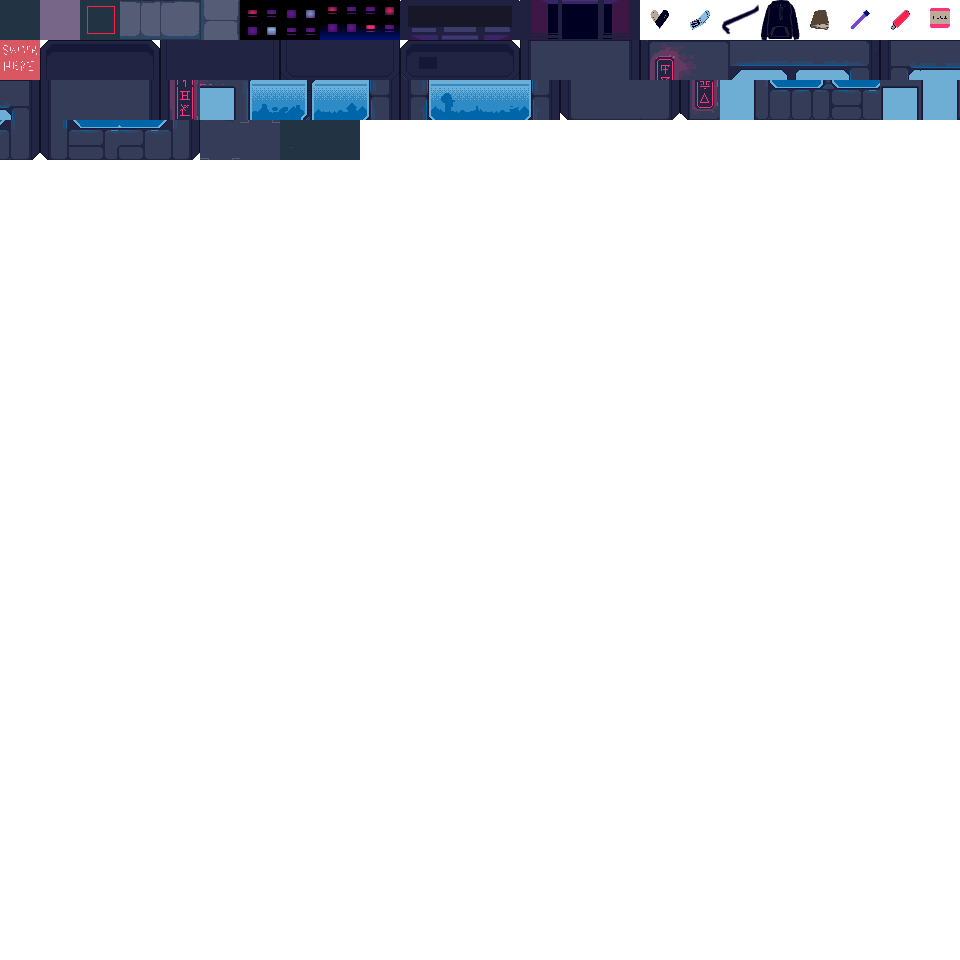
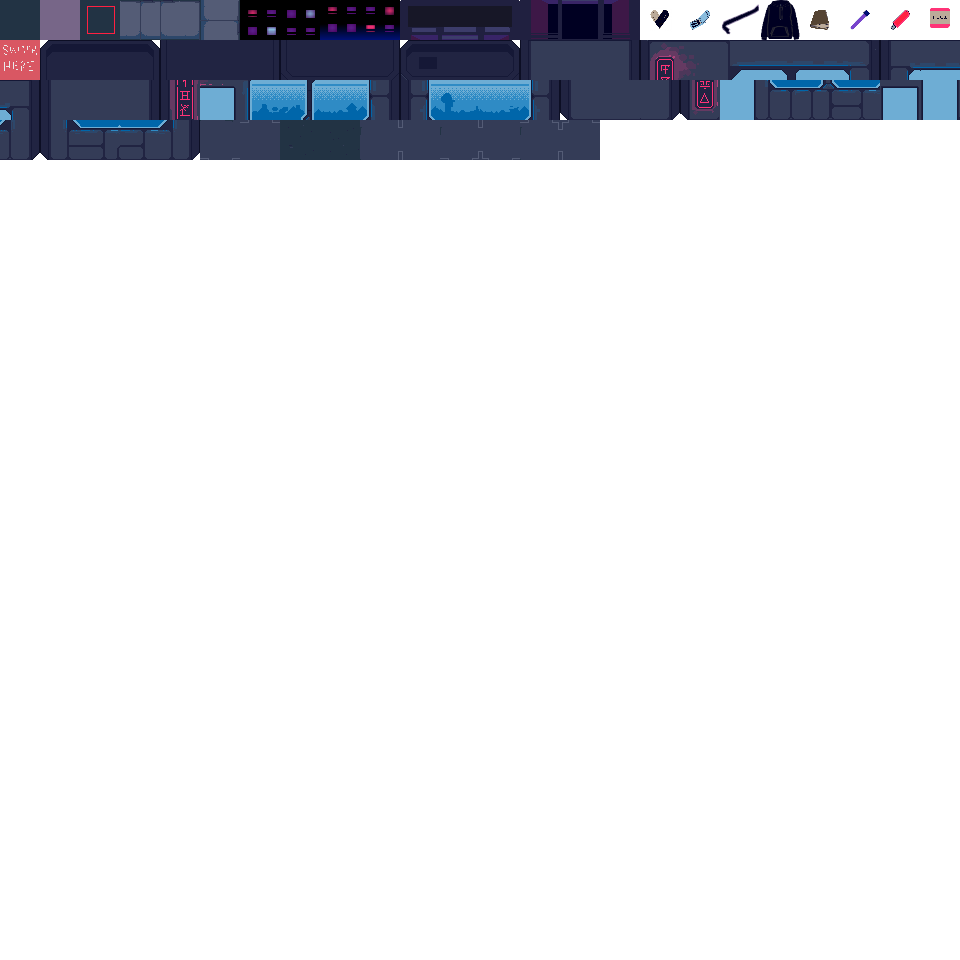
more map work, more tile art

Changed region(s): [[0.375, 0.125, 0.625, 0.1875]]

diff --git a/js/Locations.js b/js/Locations.js
@@ -59,58 +59,58 @@ let theCity =
 { 
 layout: [
     2,2,2,2,2,2,2,2,2,2,2,2,2,2,2,2,2,2,2,2,2,2,2,2,2,2,2,2,2,2,2,2,2,2,2,2,2,2,2,2,2,2,2,2,2,2,2,2,2,2,2,2,2,2,2,2,2,2,2,2,
-2,81,81,81,81,81,81,81,81,81,81,81,81,81,81,81,81,81,81,81,81,81,81,81,81,81,81,81,81,81,81,81,81,81,81,81,81,81,81,81,81,81,81,81,81,81,81,81,81,81,81,81,81,81,81,81,81,81,81,2,
-2,81,81,81,81,81,81,81,81,81,81,81,81,81,81,81,81,81,81,81,81,81,81,81,81,81,81,81,81,81,81,81,81,81,81,81,81,81,81,81,81,81,81,81,81,81,81,81,81,81,81,81,81,81,81,81,81,81,81,2,
-2,81,81,81,81,81,26,27,28,81,81,81,81,81,81,81,81,81,81,81,81,81,81,81,81,81,81,81,81,81,81,81,81,81,81,81,81,81,81,81,81,81,81,81,81,81,81,81,81,81,81,81,81,81,81,81,81,81,81,2,
-2,81,81,26,27,28,29,30,31,81,81,81,81,81,81,81,81,81,81,81,81,81,81,26,27,28,81,81,81,81,81,81,81,81,81,81,81,81,81,81,81,81,81,81,81,81,81,81,81,81,81,81,81,81,81,81,81,81,81,2,
-2,81,81,29,30,31,32,33,34,35,36,36,37,81,81,35,36,36,36,36,37,81,81,29,30,31,81,81,81,81,81,81,81,81,81,81,81,81,81,81,81,81,81,81,81,81,81,81,81,81,81,81,81,81,81,81,81,81,81,2,
-2,81,81,32,33,34,50,51,52,47,48,48,49,81,81,41,42,43,44,45,46,81,81,32,33,34,81,81,81,81,81,81,81,81,81,81,81,81,81,81,81,81,81,81,81,81,81,81,81,81,81,81,81,81,81,81,81,81,81,2,
-2,81,81,38,39,40,50,71,52,59,60,61,62,81,81,53,71,55,56,57,58,81,81,38,39,40,81,81,81,81,81,81,81,81,81,81,81,81,81,81,81,81,81,81,81,81,81,81,81,81,81,81,81,81,81,81,81,81,81,2,
-2,81,81,63,64,65,63,72,65,74,75,76,77,81,81,66,72,68,69,70,77,81,81,63,64,65,81,81,81,81,81,81,81,81,81,81,81,81,81,81,81,81,81,81,81,81,81,81,81,81,81,81,81,81,81,81,81,81,81,2,
-2,4,4,4,4,4,4,4,4,4,4,4,4,4,4,4,4,4,4,4,4,4,4,4,4,4,4,4,4,4,4,4,4,4,4,4,4,4,4,4,4,4,4,4,4,81,81,81,81,81,81,81,81,81,81,81,81,81,81,2,
-2,78,78,78,78,78,78,78,78,78,78,78,78,78,78,78,78,78,78,78,78,78,78,78,78,78,78,78,78,78,78,78,78,78,78,78,78,78,78,78,78,78,78,78,78,78,81,81,81,81,81,81,81,81,81,81,81,81,81,2,
-2,79,79,79,79,79,79,79,79,79,79,79,79,79,79,79,79,79,79,79,79,79,79,79,79,79,79,79,79,79,79,79,79,79,79,79,79,79,79,79,79,79,79,79,79,79,81,81,81,81,81,81,81,81,81,81,81,81,81,2,
-2,4,4,4,4,4,4,4,4,4,4,4,4,4,4,4,4,4,4,4,4,4,4,26,27,28,4,4,4,4,4,4,4,4,4,4,81,81,4,4,4,4,4,4,4,81,81,81,81,81,81,81,81,81,81,81,81,81,81,2,
-2,25,81,81,81,81,81,81,81,81,81,81,81,81,81,81,81,81,81,81,81,81,6,29,30,31,81,81,80,80,80,81,81,81,81,6,81,81,6,81,81,81,81,81,81,81,81,81,81,81,81,81,81,81,81,81,81,81,81,2,
-2,81,81,81,81,81,81,81,81,81,81,81,81,81,81,81,81,81,81,81,81,81,6,32,33,34,81,81,81,81,81,81,81,81,81,6,81,81,6,81,81,81,81,81,81,81,81,81,81,81,81,81,81,81,81,81,81,81,81,2,
-2,81,81,81,81,81,81,81,81,81,81,81,81,81,26,27,28,81,81,81,81,81,6,38,39,40,81,81,81,81,81,81,81,81,81,6,81,81,6,81,81,81,81,81,81,81,81,81,81,81,81,81,81,81,81,81,81,81,81,2,
-2,26,27,28,81,81,23,81,81,81,81,26,27,28,29,30,31,81,81,81,81,81,6,63,64,65,81,81,81,81,80,81,81,81,81,6,81,81,6,81,81,81,81,81,81,81,81,81,81,81,81,81,81,81,81,81,81,81,81,2,
-2,29,30,31,81,81,81,81,81,81,81,29,30,31,32,33,34,35,36,36,37,81,6,35,36,36,36,36,37,81,81,81,81,81,81,6,81,81,6,81,81,81,81,81,81,81,81,81,81,81,81,81,81,81,81,81,81,81,81,2,
-2,32,33,34,81,81,81,81,81,81,81,32,33,34,50,51,52,47,80,48,49,81,6,41,42,43,44,45,46,81,81,81,81,81,81,6,81,81,6,81,81,81,81,81,81,81,81,81,81,81,81,81,81,81,81,81,81,81,81,2,
-2,38,39,40,81,81,81,81,21,81,81,38,39,40,50,71,52,59,60,61,62,81,6,53,71,55,56,57,58,81,81,80,81,80,81,6,81,81,6,81,81,81,81,80,81,81,81,81,81,81,81,81,81,81,81,81,81,81,81,2,
-2,63,64,65,81,81,81,81,81,81,81,63,64,65,63,72,65,74,75,76,77,81,6,66,80,80,80,80,80,80,80,81,80,81,81,6,81,81,6,81,81,81,81,81,81,81,81,81,81,81,81,81,81,81,81,81,81,81,81,2,
-2,81,81,81,81,81,81,81,81,81,81,81,81,81,81,81,81,81,81,81,81,81,6,81,81,81,81,81,81,81,80,80,80,80,81,6,81,81,6,81,81,81,81,81,81,81,81,81,81,81,81,81,81,81,81,81,81,81,81,2,
-2,81,81,81,81,81,81,81,81,81,81,81,81,3,81,81,81,81,81,81,81,81,81,81,81,81,81,81,81,81,81,80,81,81,81,6,81,81,6,81,81,80,81,81,81,81,81,81,81,81,81,81,81,81,81,81,81,81,81,2,
-2,81,81,81,81,81,81,81,24,81,80,81,81,81,81,81,81,81,81,81,17,81,81,81,81,81,81,81,81,81,80,81,81,81,81,6,81,81,6,81,81,81,81,81,81,81,81,81,81,81,81,81,81,81,81,81,81,81,81,2,
-2,81,81,81,81,81,81,81,81,81,81,81,81,81,81,81,81,81,81,81,81,81,81,26,27,28,81,81,81,80,81,81,81,20,81,6,81,81,6,81,81,81,81,81,81,80,81,81,81,81,81,81,81,81,81,81,81,81,81,2,
-2,81,81,81,81,81,80,81,81,81,81,81,81,81,81,81,22,81,81,81,81,81,81,29,30,31,81,81,81,81,81,81,81,81,81,6,81,81,6,81,81,81,81,81,81,81,81,81,81,81,81,81,81,81,81,81,81,81,81,2,
-2,81,81,81,81,81,81,81,81,81,81,81,81,81,81,81,81,81,81,81,81,81,81,32,33,34,81,81,81,81,81,81,81,81,81,6,81,81,6,81,81,81,81,81,81,81,81,81,81,81,81,81,81,81,81,81,81,81,81,2,
-2,81,81,81,80,81,81,81,81,81,80,81,81,81,81,81,81,81,81,81,81,81,81,38,39,40,81,81,81,81,81,81,81,81,81,6,81,81,6,81,81,81,81,81,81,81,81,81,81,81,81,81,81,81,81,81,81,81,81,2,
-2,81,81,81,81,81,81,81,81,81,81,81,81,81,81,81,81,81,81,81,81,81,81,63,64,65,81,81,81,81,81,80,81,81,81,6,81,81,6,81,81,81,81,81,81,81,81,81,81,80,81,81,81,81,81,81,81,81,81,2,
-2,81,81,81,81,81,81,80,80,81,81,81,81,81,81,81,81,81,81,81,81,81,81,81,81,81,81,81,81,81,81,81,81,81,81,6,81,81,6,81,81,81,81,81,81,81,81,81,80,81,81,81,81,81,81,81,81,81,81,2,
-2,81,81,81,81,81,81,81,80,81,81,81,81,81,80,81,81,81,81,81,81,81,81,81,81,81,81,81,81,81,81,81,81,81,81,6,81,81,6,81,81,81,81,81,81,81,81,81,81,81,81,81,81,81,81,81,81,81,81,2,
-2,81,81,81,80,81,81,81,81,81,81,81,81,81,80,81,81,81,81,81,81,81,81,35,36,36,37,81,81,81,81,81,81,81,81,6,81,81,6,81,81,80,81,81,81,81,81,81,81,81,81,81,81,81,81,81,81,81,81,2,
-2,81,81,81,81,81,81,81,81,80,81,81,81,81,81,80,81,81,81,81,81,81,81,47,48,48,49,81,81,81,81,81,81,81,81,6,81,81,6,81,81,81,81,81,80,81,81,81,81,81,81,81,81,81,81,81,81,81,81,2,
-2,81,81,81,81,81,81,81,80,81,81,80,80,81,81,81,81,81,81,81,81,81,81,59,60,61,62,81,81,81,81,81,81,81,81,6,81,81,6,81,81,81,81,81,81,81,81,81,81,81,81,81,81,81,81,81,81,81,81,2,
-2,81,81,81,81,81,81,81,81,81,81,81,81,81,81,81,81,81,81,81,81,81,81,74,75,76,77,81,81,81,81,81,81,81,81,6,81,81,6,81,81,81,81,81,80,81,81,81,80,81,81,81,81,81,81,81,81,81,81,2,
-2,81,81,81,81,81,81,81,81,81,81,81,81,81,81,81,81,81,81,81,81,81,81,81,81,81,81,81,81,81,81,81,81,81,81,6,81,81,6,81,81,81,81,81,80,80,81,81,81,81,81,81,81,81,81,81,81,81,81,2,
-2,81,81,81,81,81,81,81,81,81,81,81,81,81,81,81,81,81,81,81,81,81,81,81,81,81,81,81,81,81,81,81,81,81,81,6,81,81,6,81,81,81,81,81,81,81,81,81,81,81,81,81,81,81,81,81,81,81,81,2,
-2,81,81,81,81,81,81,81,81,81,81,81,81,81,81,81,81,81,81,81,81,80,81,81,81,81,81,81,81,81,81,81,81,81,81,6,81,81,6,81,81,81,81,81,81,80,81,81,81,81,81,81,81,81,81,81,81,81,81,2,
-2,81,81,81,81,81,81,81,81,81,81,81,81,81,81,81,81,81,81,81,81,80,81,81,81,81,80,81,81,81,81,81,81,81,81,6,81,81,6,81,81,81,81,81,81,80,81,80,81,81,81,81,81,81,81,81,81,81,81,2,
-2,81,81,81,81,81,81,81,81,81,81,81,81,81,81,81,81,81,81,80,81,81,81,81,81,81,81,81,81,81,81,81,81,81,81,6,81,81,6,81,81,81,80,81,81,81,80,81,81,81,81,81,81,81,81,81,81,81,81,2,
-2,81,81,81,81,81,81,81,81,81,81,81,81,81,81,81,81,81,81,81,81,81,80,80,81,81,81,81,81,81,81,81,81,81,81,81,81,81,81,81,81,81,81,81,81,81,81,81,81,81,81,81,81,81,81,81,81,81,81,2,
-2,81,81,81,81,81,81,81,81,81,81,81,81,81,81,81,81,81,81,81,81,81,81,80,80,81,81,81,81,81,81,81,81,81,81,81,81,81,81,81,81,81,81,81,81,81,81,81,81,81,81,81,81,81,81,81,81,81,81,2,
-2,81,81,81,81,81,81,81,81,81,81,81,81,81,81,81,81,81,81,81,81,81,81,81,81,81,81,81,81,81,81,81,81,81,81,81,81,81,81,81,81,81,81,81,81,81,81,81,81,81,81,81,81,81,81,81,81,81,81,2,
-2,81,81,81,81,81,81,81,81,81,81,81,81,81,81,81,81,81,81,81,81,81,81,80,81,81,81,81,81,81,81,81,81,81,81,81,81,81,81,81,81,81,81,81,81,81,81,81,81,81,81,81,81,81,81,81,81,81,81,2,
-2,81,81,81,81,81,81,81,81,81,81,81,81,81,81,81,81,81,81,81,81,81,81,81,81,81,81,81,81,81,81,81,81,81,81,81,81,81,81,81,81,81,81,81,81,81,81,81,81,81,81,81,81,81,81,81,81,81,81,2,
-2,81,81,81,81,81,81,81,81,81,81,81,81,81,81,81,81,81,81,81,81,81,81,81,81,81,81,81,81,81,81,81,81,81,81,81,81,81,81,81,81,81,81,81,81,81,81,81,81,81,81,81,81,81,81,81,81,81,81,2,
-2,81,81,81,81,81,81,81,81,81,81,81,81,81,81,81,81,81,81,81,81,81,81,81,81,81,81,81,81,81,81,81,81,81,81,81,81,81,81,81,81,81,81,81,81,81,81,81,81,81,81,81,81,81,81,81,81,81,81,2,
-2,81,81,81,81,81,81,81,81,81,81,81,81,81,81,81,81,81,81,81,81,81,81,81,81,81,81,81,81,81,81,81,81,81,81,81,81,81,81,81,81,81,81,81,81,81,81,81,81,81,81,81,81,81,81,81,81,81,81,2,
-2,81,81,81,81,81,81,81,81,81,81,81,81,81,81,81,81,81,81,81,81,81,81,81,81,81,81,81,81,81,81,81,81,81,81,81,81,81,81,81,81,81,81,81,81,81,81,81,81,81,81,81,81,81,81,81,81,81,81,2,
-2,81,81,81,81,81,81,81,81,81,81,81,81,81,81,81,81,81,81,81,81,81,81,81,81,81,81,81,81,81,81,81,81,81,81,81,81,81,81,81,81,81,81,81,81,81,81,81,81,81,81,81,81,81,81,81,81,81,81,2,
-2,81,81,81,81,81,81,81,81,81,81,81,81,81,81,81,81,81,81,81,81,81,81,81,81,81,81,81,81,81,81,81,81,81,81,81,81,81,81,81,81,81,81,81,81,81,81,81,81,81,81,81,81,81,81,81,81,81,81,2,
-2,81,81,81,81,81,81,81,81,81,81,81,81,81,81,81,81,81,81,81,81,81,81,81,81,81,81,81,81,81,81,81,81,81,81,81,81,81,81,81,81,81,81,81,81,81,81,81,81,81,81,81,81,81,81,81,81,81,81,2,
-2,81,81,81,81,81,81,81,81,81,81,81,81,81,81,81,81,81,81,81,81,81,81,81,81,81,81,81,81,81,81,81,81,81,81,81,81,81,81,81,81,81,81,81,81,81,81,81,81,81,81,81,81,81,81,81,81,81,81,2,
+2,1,1,1,1,1,1,1,1,1,1,1,1,1,1,1,1,1,1,1,1,1,1,1,1,1,1,1,1,1,1,1,1,1,1,1,1,1,1,1,1,1,1,1,1,1,1,1,1,1,1,1,1,1,1,1,1,1,1,2,
+2,1,1,1,1,1,1,1,1,1,1,1,1,1,1,1,1,1,1,1,1,1,1,1,1,1,1,1,1,1,1,1,1,1,1,1,1,1,1,1,1,1,1,1,1,1,1,1,1,1,1,1,1,1,1,1,1,1,1,2,
+2,1,1,1,1,1,1,1,1,1,1,1,1,1,1,1,1,1,1,1,1,1,1,1,1,1,1,1,1,1,1,1,1,1,1,1,1,1,1,1,1,1,1,1,1,1,1,1,1,1,1,1,1,1,1,1,1,1,1,2,
+2,1,1,1,1,1,1,1,1,1,1,1,1,1,1,1,1,1,1,1,1,1,1,1,1,1,1,1,1,1,1,1,1,1,1,1,1,1,1,1,1,1,1,1,1,1,1,1,1,1,1,1,1,1,1,1,1,1,1,2,
+2,1,1,1,1,1,1,1,1,1,1,1,1,1,1,1,1,1,1,1,1,1,1,1,1,1,1,1,1,1,1,1,1,1,1,1,1,1,1,1,1,1,1,1,1,1,1,1,1,1,1,1,1,1,1,1,1,1,1,2,
+2,1,1,1,1,1,1,1,1,1,1,1,1,1,1,1,1,1,1,1,1,1,1,1,1,1,1,1,1,1,1,1,1,1,1,1,1,1,1,1,1,1,1,1,1,1,1,1,1,1,1,1,1,1,1,1,1,1,1,2,
+2,1,1,1,1,1,26,27,28,1,1,1,1,1,1,1,1,1,1,1,1,26,28,1,1,1,1,1,1,1,1,26,27,28,1,1,1,1,1,1,1,1,1,1,1,1,1,1,1,1,1,1,1,1,1,1,1,1,1,2,
+2,1,1,26,27,28,29,30,31,1,1,1,1,26,28,1,1,1,1,1,1,29,31,26,27,27,28,1,1,1,1,29,30,31,1,1,1,1,1,1,1,1,1,1,1,1,1,1,1,1,1,1,1,1,1,1,1,1,1,2,
+2,1,1,29,30,31,32,33,34,35,36,36,37,29,31,35,36,36,36,36,37,32,34,29,30,30,31,35,36,36,37,32,33,34,1,35,36,36,36,36,37,1,1,1,1,1,1,1,1,1,1,1,1,1,1,1,1,1,1,2,
+2,1,1,32,33,34,50,51,52,47,48,48,49,32,34,41,42,43,44,45,46,38,40,32,33,33,34,47,48,48,49,50,51,52,1,47,48,48,48,48,49,1,1,1,1,1,1,1,1,1,1,1,1,1,1,1,1,1,1,2,
+2,1,1,38,39,40,50,71,52,59,60,61,62,38,40,53,71,55,56,57,58,50,52,38,39,39,40,59,60,61,62,50,71,52,1,59,60,61,61,61,62,1,1,1,1,1,1,1,1,1,1,1,1,1,1,1,1,1,1,2,
+2,1,1,63,64,65,63,72,65,74,75,76,77,63,65,66,72,68,69,70,77,63,65,63,64,64,65,74,75,76,77,63,72,65,1,74,75,76,76,76,77,1,1,1,1,1,1,1,1,1,1,1,1,1,1,1,1,1,1,2,
+2,4,4,4,4,4,4,4,4,4,4,4,4,4,4,4,4,4,4,4,4,4,4,4,4,4,4,4,4,4,4,4,4,4,4,4,4,4,5,26,27,27,28,1,1,81,81,81,81,81,81,81,81,81,81,81,81,81,81,2,
+2,78,78,78,78,78,78,78,78,78,78,78,78,78,78,78,78,78,78,78,78,78,78,3,78,78,78,78,78,78,78,78,78,78,78,78,78,78,6,29,30,30,31,1,1,1,81,81,81,81,81,81,81,81,81,81,81,81,81,2,
+2,79,79,79,79,79,79,79,79,79,79,79,79,79,79,79,79,79,79,79,79,79,79,79,79,79,79,79,79,79,79,79,79,79,79,79,86,87,6,32,33,33,34,1,1,1,81,81,81,81,81,81,81,81,81,81,81,81,81,2,
+2,4,4,4,4,4,4,4,4,4,4,4,35,36,36,37,4,4,4,4,4,4,4,26,27,28,4,4,4,4,26,27,27,27,28,5,82,83,6,38,39,39,40,1,1,1,81,81,81,81,81,81,81,81,81,81,81,81,81,2,
+2,81,81,81,81,81,35,36,36,37,81,81,50,39,39,40,35,36,37,26,27,27,28,29,30,31,26,27,28,80,29,30,30,30,31,6,82,83,6,63,64,64,65,81,81,81,81,81,81,81,81,81,81,81,81,81,81,81,81,2,
+2,81,81,81,81,81,50,39,39,40,81,81,63,64,64,65,50,39,40,32,33,33,34,32,33,34,29,30,31,81,32,33,33,33,34,6,82,83,6,81,81,81,81,81,81,81,81,81,81,81,81,81,81,81,81,81,81,81,81,2,
+2,81,81,81,81,81,63,64,64,65,81,81,81,81,81,81,50,51,52,38,39,39,40,38,39,40,32,33,34,81,38,39,26,27,28,6,82,83,6,26,27,27,28,81,81,81,81,81,81,81,81,81,81,81,81,81,81,81,81,2,
+2,81,81,81,81,81,81,81,81,81,81,81,81,81,81,81,50,51,52,63,64,64,65,63,64,65,38,39,40,81,63,64,29,30,31,6,82,83,6,29,30,30,31,81,81,81,81,81,81,81,81,81,81,81,81,81,81,81,81,2,
+2,81,81,81,81,81,81,81,81,81,81,81,81,81,81,81,63,64,65,81,81,81,81,1,1,1,63,64,65,81,81,81,32,33,34,6,82,83,6,32,33,33,34,81,81,81,81,81,81,81,81,81,81,81,81,81,81,81,81,2,
+2,81,81,81,81,81,81,81,81,81,81,81,81,81,81,81,81,81,81,81,81,81,81,1,1,1,1,1,1,81,81,81,38,39,40,6,82,83,6,38,39,39,40,81,81,81,26,27,27,28,81,81,81,26,27,28,81,81,81,2,
+2,81,81,81,81,81,81,81,81,81,81,81,81,81,81,81,81,81,81,81,81,81,81,1,1,1,1,1,1,81,81,80,63,64,65,6,82,83,6,63,64,64,65,80,81,81,29,30,30,31,26,27,28,29,30,31,28,81,81,2,
+2,81,81,81,81,81,81,81,81,81,81,81,81,81,81,81,81,81,81,81,81,81,81,1,1,1,1,1,1,80,80,81,80,81,81,6,82,83,6,35,36,36,36,36,36,37,32,33,33,34,29,30,31,32,33,34,31,81,81,2,
+2,81,81,81,81,81,81,81,81,81,81,81,81,81,81,81,81,81,81,81,81,81,81,81,81,81,81,81,81,81,80,80,80,80,81,6,82,83,6,47,48,48,48,48,48,49,38,39,39,40,32,33,34,50,51,52,34,81,81,2,
+2,81,81,81,81,81,81,81,81,81,81,81,81,81,81,81,81,81,81,81,81,81,81,81,81,81,81,81,81,81,81,81,81,81,81,6,82,83,6,59,60,61,61,61,61,62,63,64,64,65,38,39,40,50,71,52,40,81,81,2,
+2,81,81,81,81,81,81,81,81,81,81,81,81,81,81,81,81,81,81,81,81,81,81,81,81,81,81,81,81,81,81,81,81,81,81,6,82,83,6,74,75,76,76,76,76,77,81,81,81,81,63,64,65,63,72,65,65,81,81,2,
+2,81,81,81,81,81,81,81,81,81,81,81,81,81,81,81,81,81,81,81,81,81,81,81,81,81,81,81,81,81,81,81,81,81,81,6,82,83,6,4,4,4,4,4,4,4,4,4,4,4,4,4,4,4,25,4,4,4,4,2,
+2,81,81,81,81,81,81,81,81,81,81,81,81,81,81,81,81,81,81,81,81,81,81,81,81,81,81,81,81,81,81,81,81,81,81,6,82,85,78,78,78,78,78,78,78,78,78,78,78,78,78,78,78,78,78,78,78,78,78,2,
+2,81,81,81,81,81,81,81,81,81,81,81,81,81,81,81,81,81,81,81,81,81,81,81,81,81,81,81,81,81,81,81,81,81,81,6,82,87,79,79,79,79,79,79,79,79,79,79,79,79,79,79,79,79,79,79,79,79,79,2,
+2,81,81,81,81,81,81,81,81,81,81,81,81,81,81,81,81,81,81,81,81,81,81,81,81,81,81,81,81,81,81,81,81,81,81,6,82,83,6,4,4,4,4,4,4,4,4,26,27,28,4,4,4,4,26,27,27,27,28,2,
+2,81,81,81,81,81,81,81,81,81,81,81,81,81,81,81,81,81,81,81,81,81,81,81,81,81,81,81,81,81,81,81,81,81,81,6,82,83,6,81,81,81,81,26,27,27,28,29,30,31,26,27,28,80,29,30,30,30,31,2,
+2,81,81,81,81,81,81,81,81,81,81,81,81,81,81,81,81,81,81,81,81,81,81,81,81,81,81,81,81,81,81,81,81,81,81,6,82,83,6,81,81,81,81,32,33,33,34,32,33,34,29,30,31,81,32,33,33,33,34,2,
+2,81,81,81,81,81,81,81,81,81,81,81,81,81,81,81,1,81,81,81,81,81,81,81,81,81,81,81,81,81,81,81,81,81,81,6,82,83,6,81,81,81,81,38,39,39,40,38,39,40,32,33,34,81,38,39,26,27,28,2,
+2,81,81,81,81,81,81,81,81,81,81,81,81,81,81,81,81,81,81,81,81,81,81,81,81,81,81,81,81,81,81,81,81,81,81,6,82,83,6,81,81,80,81,63,64,64,65,63,64,65,38,39,40,81,63,64,29,30,31,2,
+2,81,81,81,81,81,81,81,81,80,81,81,81,81,81,80,81,81,81,81,81,81,81,81,81,81,81,81,81,81,81,81,81,81,81,6,82,83,6,81,81,81,81,81,81,81,81,1,1,1,63,64,65,81,81,81,32,33,34,2,
+2,81,81,81,81,81,81,81,80,81,81,80,80,81,81,81,81,26,27,27,27,27,27,27,27,28,81,81,81,81,81,81,81,81,81,6,82,83,6,81,81,81,81,81,81,81,81,1,1,1,1,1,1,81,81,81,38,39,40,2,
+1,1,26,27,28,1,1,1,1,1,1,81,81,81,81,81,35,36,30,30,30,30,30,30,30,31,81,26,27,27,27,27,28,81,81,6,82,83,6,81,81,81,81,81,81,81,81,1,1,1,1,1,1,81,81,80,63,64,65,2,
+27,28,29,30,31,1,1,1,1,26,28,81,81,81,81,81,29,31,33,33,33,33,33,33,33,34,81,29,30,30,30,30,31,81,81,6,82,83,6,81,81,81,81,81,80,80,81,81,81,81,81,81,81,81,81,81,81,81,81,2,
+30,31,32,33,34,35,36,36,37,29,31,81,81,81,81,81,32,34,51,51,51,51,51,51,51,52,81,32,33,33,33,33,34,81,81,6,82,83,6,81,81,81,81,81,81,81,81,81,81,81,81,81,81,81,81,81,81,81,81,2,
+33,34,50,51,52,47,48,48,49,32,34,81,81,81,81,81,38,40,51,51,51,51,51,51,71,52,81,50,51,51,51,51,52,81,81,6,82,83,6,81,81,81,81,81,81,80,81,81,81,81,81,81,81,81,81,81,81,81,81,2,
+39,40,50,71,52,59,60,61,62,38,40,81,81,81,81,81,50,52,64,64,64,64,64,64,72,65,80,50,51,51,51,71,52,81,81,6,82,83,6,81,81,81,81,81,81,80,81,80,81,81,81,81,81,81,81,81,81,81,81,2,
+64,65,63,72,65,74,75,76,77,63,65,81,81,81,81,81,63,65,81,80,81,81,81,81,81,81,81,63,64,64,64,72,65,81,81,6,82,83,6,81,81,81,80,81,81,81,80,81,81,81,81,81,81,81,81,81,81,81,81,2,
+2,4,4,4,4,4,4,4,4,4,4,4,4,4,4,4,4,4,4,4,4,4,4,4,4,4,4,4,4,4,4,4,4,4,4,5,82,83,6,1,1,81,81,81,81,81,81,81,81,81,81,81,81,81,81,81,81,81,81,2,
+2,78,78,78,78,78,78,78,78,78,78,78,78,78,78,78,78,78,78,78,78,78,78,78,78,78,78,78,78,78,78,78,78,78,78,78,84,85,6,1,1,81,81,81,81,81,81,81,81,81,81,81,81,81,81,81,81,81,81,2,
+2,79,79,79,79,79,79,79,79,79,79,79,79,79,79,79,79,79,79,79,79,79,79,79,79,79,79,79,79,79,79,79,79,79,79,79,79,79,6,1,1,81,81,81,81,81,81,81,81,81,81,81,81,81,81,81,81,81,81,2,
+28,4,4,4,35,36,36,37,4,4,4,4,4,4,4,26,27,28,4,4,4,35,36,36,37,4,4,4,4,4,4,4,26,27,28,4,4,4,5,1,1,81,81,81,81,81,81,81,81,81,81,81,81,81,81,81,81,81,81,2,
+31,26,27,28,50,39,39,40,35,36,37,26,27,27,28,29,30,31,26,27,28,50,39,39,40,35,36,37,26,27,27,28,29,30,31,26,27,28,81,81,81,81,81,81,81,81,81,81,81,81,81,81,81,81,81,81,81,81,81,2,
+34,29,30,31,63,64,64,65,50,39,40,32,33,33,34,32,33,34,29,30,31,63,64,64,65,50,39,40,32,33,33,34,32,33,34,29,30,31,81,81,81,81,81,81,81,81,81,81,81,81,81,81,81,81,81,81,81,81,81,2,
+40,32,33,34,81,81,81,81,50,51,52,38,39,39,40,38,39,40,32,33,34,81,81,81,81,50,51,52,38,39,39,40,38,39,40,32,33,34,81,81,81,81,81,81,81,81,81,81,81,81,81,81,81,81,81,81,81,81,81,2,
+65,38,39,40,81,81,81,81,50,51,52,63,64,64,65,63,64,65,38,39,40,81,81,81,81,50,51,52,63,64,64,65,63,64,65,38,39,40,81,81,81,81,81,81,81,81,81,81,81,81,81,81,81,81,81,81,81,81,81,2,
+1,63,64,65,81,81,81,81,63,64,65,81,81,81,81,1,1,1,63,64,65,81,81,81,81,63,64,65,81,81,81,81,1,1,1,63,64,65,81,81,81,81,81,81,81,81,81,81,81,81,81,81,81,81,81,81,81,81,81,2,
 2,81,81,81,81,81,81,81,81,81,81,81,81,81,81,81,81,81,81,81,81,81,81,81,81,81,81,81,81,81,81,81,81,81,81,81,81,81,81,81,81,81,81,81,81,81,81,81,81,81,81,81,81,81,81,81,81,81,81,2,
 2,81,81,81,81,81,81,81,81,81,81,81,81,81,81,81,81,81,81,81,81,81,81,81,81,81,81,81,81,81,81,81,81,81,81,81,81,81,81,81,81,81,81,81,81,81,81,81,81,81,81,81,81,81,81,81,81,81,81,2,
 2,81,81,81,81,81,81,81,81,81,81,81,81,81,81,81,81,81,81,81,81,81,81,81,81,81,81,81,81,81,81,81,81,81,81,81,81,81,81,81,81,81,81,81,81,81,81,81,81,81,81,81,81,81,81,81,81,81,81,2,
